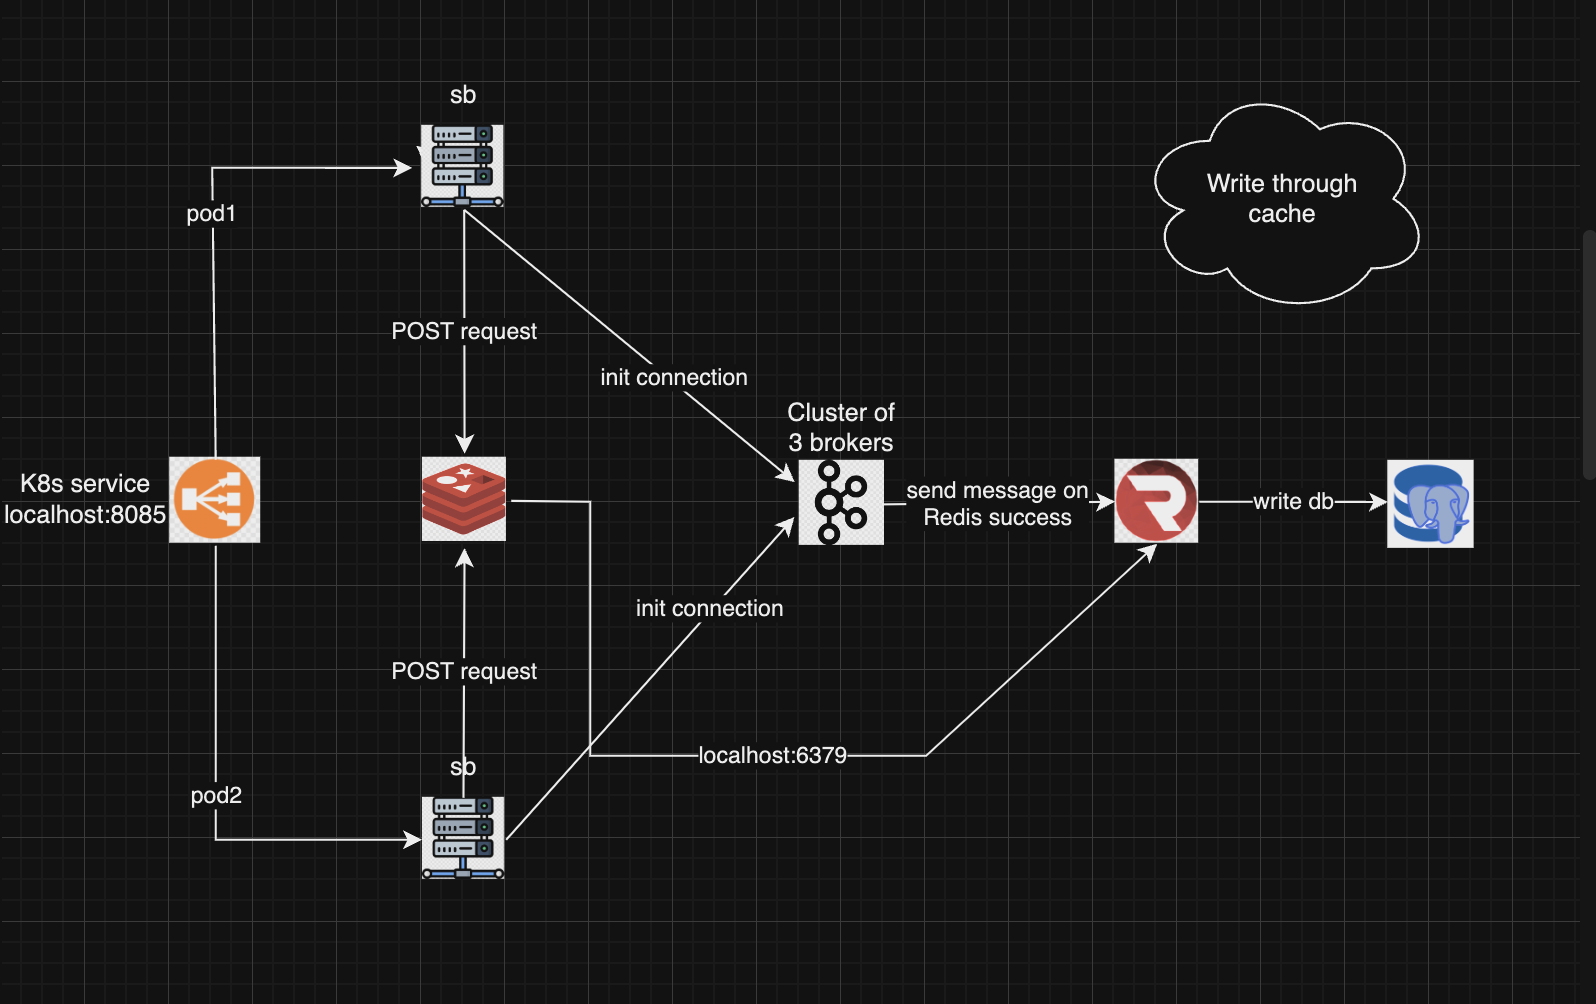
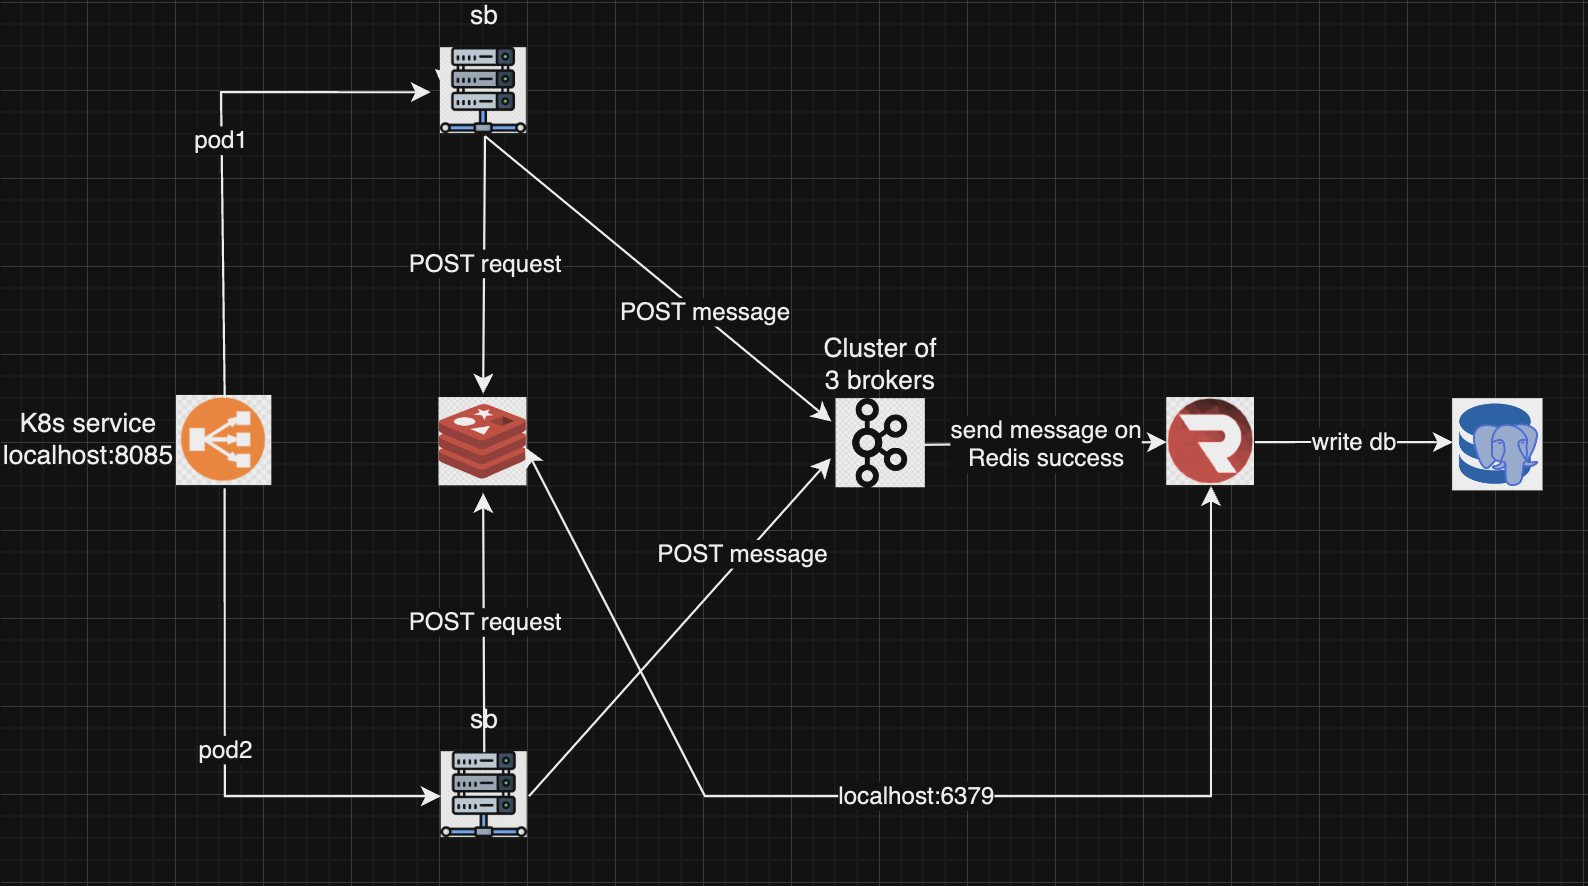
add ReadMe

diff --git a/wt_kafka_test.py b/wt_kafka_test.py
@@ -1,6 +1,6 @@
 import requests, json, sys, time
 
-url = "http://localhost:8085/student/add"
+url = "http://localhost:8090/student/add"
 
 headers = {
   'Content-Type': 'application/json'

diff --git a/README.md b/README.md
@@ -36,7 +36,16 @@ Consider a microservice architecture with two separated services (A and B) shari
 ### 3. Improve availability and scalability
 By tracing and monitoring sb service when interacts with high amount of requests from external service (sa), one sb server could surely be overloaded. Hence, it optimize the workflow for this database cache sync simulation we want manage multiple services/docker containers with Kubernetes using Minikube open source. Using the LoadBalancer service to produce sb server replicas allows better availablity and scalability helping the Redis cache service sync up with Postgres better in real-time. All of the used resources are configured in **resource.yml**. Inside each service folder, there is also a **k8s.yml** file to create the server service (with provisioned resource) in the same K8s cluster. 
 
+**WRITE THROUGH CACHE DESIGN**
 ![Write Through cache design](/images/wt.png)
+
+**MULITPLE SERVICE CACHE SYNC DESIGN**
+
+![Multiple service design](/images/multi-serv.png)
+
+**JENKINS SERVICE DESIGN**
+
+![Jenkins scheduled syncing job](/images/jenkins.png)
 
 ### 4. Jenkins Pipeline Daily Automatic Sync (Additional)
 
